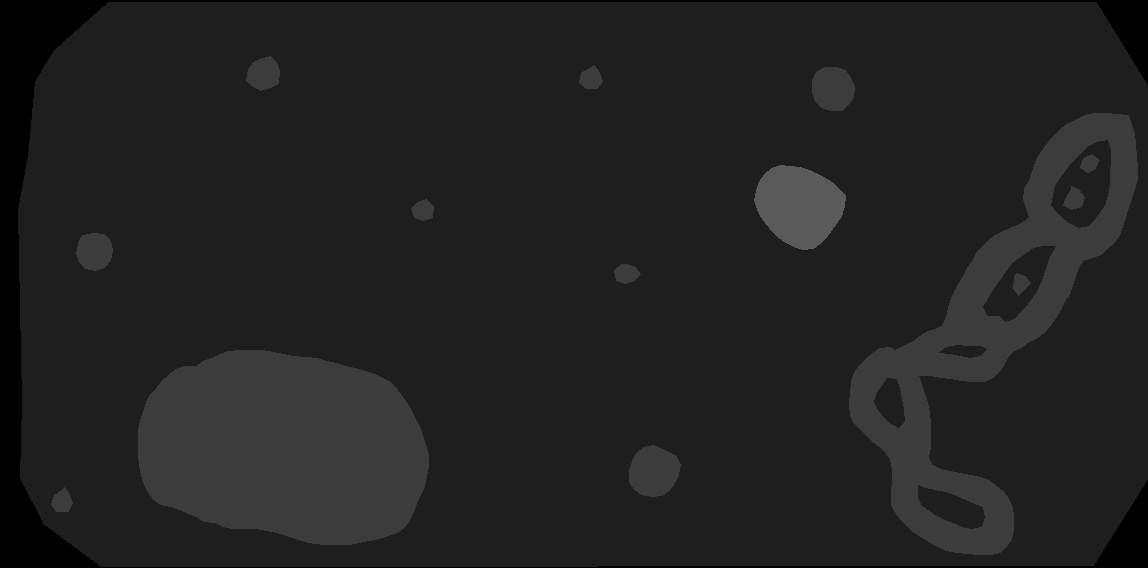
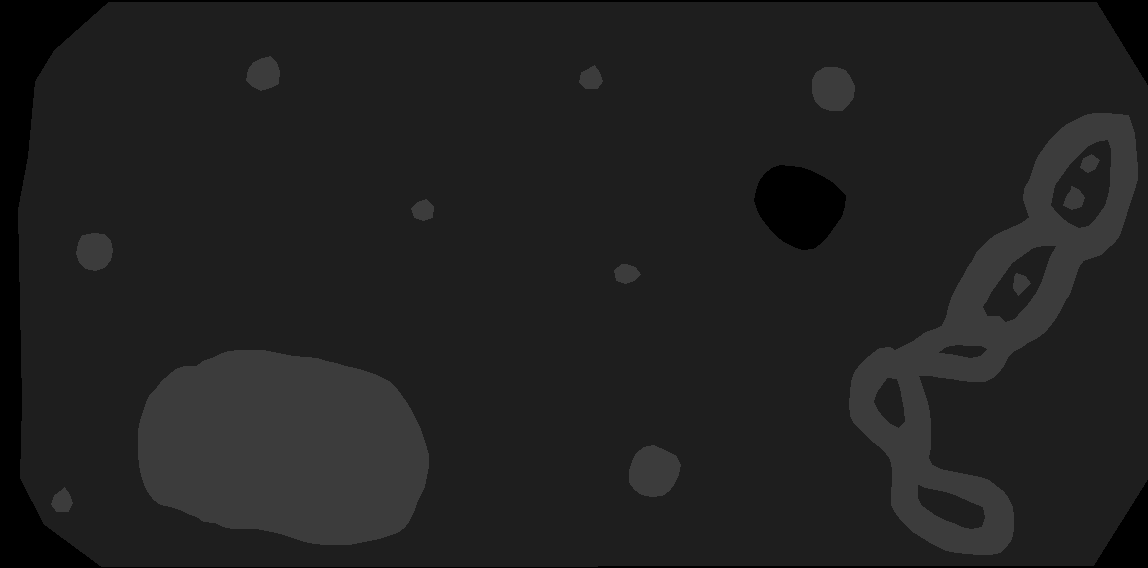
[Documentation] Update documentation

Changed region(s): [[0.6402, 0.2694, 0.7622, 0.4489]]

diff --git a/annotations/annotations_converter.py b/annotations/annotations_converter.py
@@ -11,7 +11,16 @@ from utilities.os_utilities import read_json
 class AnnotationsConverter():
     def __init__(self, image_path: str, annotation_path: str, label_dictionary: Dict,
                  method: Literal["naive", "ambiguous"] = "naive") -> None:
+        """
+        Initializes the converter by loading the image and annotations, and immediately generating the mask.
 
+        Args:
+            image_path (str): Path to the source image file.
+            annotation_path (str): Path to the VGG Image Annotator JSON file.
+            label_dictionary (Dict): A mapping of string labels to integer pixel values for the mask.
+            method (Literal["naive", "ambiguous"], optional): The strategy for resolving overlapping 
+                polygons. Defaults to "naive".
+        """
         self.image_path = image_path
         self.image = cv2.imread(self.image_path)
 
@@ -22,19 +31,26 @@ class AnnotationsConverter():
         self.label_dictionary = label_dictionary
         self.neural_network_mask = self.get_mask(method=method)
 
-    def convert_image_annotations(self):
+    def convert_image_annotations(self) -> List[Dict]:
+        """
+        Extracts and converts the raw VGG Image Annotator (VIA) regions into a standardized format.
+
+        This method acts as the initial parsing step for the JSON annotations. It searches the raw
+        JSON data for entries matching the specified image file name, extracts the polygon coordinate 
+        points, and associates them with their corresponding class labels (e.g., 'membrane', 'bacteria'). 
+        The resulting structured data is then used downstream for creating the segmentation masks.
+
+        Returns:
+            List[Dict]: A list of dictionaries, where each dictionary represents a labeled region 
+                containing a 'label' string and a 'points' list of (x, y) coordinate tuples.
+        """
         annotation_regions = None
 
-        # TODO : Check with Spore.bio -> I assume that the first key is the project name
-        #  , multiple different labellers or multiple different resolutions of an image given the key name but no sure.
-        #  we will iterate through it and check that we have the same file name before adding labelled regions
         for key, labelling_information in self.annotation_data.items():
             if labelling_information["filename"] == os.path.basename(self.image_path):
                 # Grab the image annotations
                 annotation_regions = labelling_information["regions"]
 
-        # TODO Inform that we could not get the labels
-        # todo to be re-reviewed
         if not annotation_regions:
             print(f"Unfortunately we could not find any labelled regions for {self.image_path}")
             exit()
@@ -48,11 +64,19 @@ class AnnotationsConverter():
 
         return converted_image_annotations
 
-    def prioritize_largest_membrane(self):
-        # Trying to deal with ambiguity of the the annotation that was provided
-        # There is a membrane that spans approximately the whole image
-        # Inside of it there are bacteria regions that also have inner regions
-        # that are membranes followed by other bacteria regions
+    def prioritize_largest_membrane(self) -> List[Dict]:
+        """
+        Reorders the image annotations to ensure the largest membrane is processed first.
+
+        This method resolves ambiguity in the provided annotations where a large membrane spans 
+        approximately the whole image, and contains bacteria regions that themselves have inner 
+        membrane regions. By identifying and placing the largest membrane first in the list, it 
+        ensures that subsequent bacteria and inner regions are drawn correctly on top of it.
+
+        Returns:
+            List[Dict]: A reordered list of annotation dictionaries, with the largest membrane 
+                annotation at the beginning (if any membranes are present).
+        """
         membrane_areas = []
 
         found_membrane = False
@@ -79,9 +103,24 @@ class AnnotationsConverter():
         else:
             return self.image_annotations
 
-    def get_mask(self, method):
-        # todo definition of method for ambiguous
+    def get_mask(self, method: Literal["naive", "ambiguous"]) -> np.ndarray:
+        """
+        Generates a categorical 2D image mask from the parsed polygon annotations.
 
+        This function maps the region annotations to an array of pixel values, acting as the primary
+        data preparation step before feeding images into the segmentation neural network. Based on the 
+        selected `method`, it handles overlapping polygons differently. The 'ambiguous' method prioritizes
+        the largest membrane to be drawn first, so smaller enclosed structures (like bacteria) are drawn 
+        on top, preventing them from being overwritten.
+
+        Args:
+            method (Literal["naive", "ambiguous"]): The strategy used to handle overlapping annotations. 
+                'naive' draws them in the order they appear, whereas 'ambiguous' re-orders them to draw 
+                the largest membrane first.
+
+        Returns:
+            np.ndarray: A 2D numpy array of shape (height, width) representing the mask.
+        """
         # Set up the mask
         image_height, image_width, _ = self.image.shape
         mask = np.zeros((image_height, image_width), dtype=np.uint8)
@@ -105,16 +144,18 @@ class AnnotationsConverter():
 
         return mask
 
-    def show_mask(self, multiplier=30, window_name="Image Mask"):
+    def show_mask(self, delta: int = 1, multiplier: int = 30, window_name="Image Mask"):
         """
         Displays the generated neural network mask in a local GUI window for visual inspection.
 
         Args:
+            delta (int, optional): A constant value added to the mask pixel values before scaling, 
+                useful for making background or zero-valued pixels visible. Defaults to 1.
             multiplier (int, optional): A scaling factor applied to the mask pixel values to enhance 
                 visibility on screen. Defaults to 30.
             window_name (str, optional): The title of the OpenCV window. Defaults to "Image Mask".
         """
-        cv2.imshow(window_name, self.neural_network_mask * multiplier)
+        cv2.imshow(window_name, (self.neural_network_mask + delta) * multiplier)
         cv2.waitKey(0)
 
     def save_mask(self, output_file_path: str, add_interpretable_version: bool = False, multiplier=30):

diff --git a/main.py b/main.py
@@ -11,7 +11,7 @@ bacteria_path = os.path.join(dataset_directory, "bacteria.png")
 annotation_path = os.path.join(dataset_directory, "annotations.json")
 
 # Setup Desired Label Dictionary {class_name: class_index_in_mask}
-label_dictionary = {"membrane": 1, "bacteria": 2, "unsure": 3}
+label_dictionary = {"unsure": 0, "membrane": 1, "bacteria": 2}
 
 # Based on some ambiguity in the annotation interpretation, i chose to implement two interpretations.
 # Naive interpretation -> Set up regions in the order they were labeled
@@ -25,6 +25,8 @@ for interpretation in ["ambiguous", "naive"]:
 
     # Define where to save the masks
     mask_path = os.path.join(dataset_directory, f"{interpretation}_mask_annotations.png")
+
+    # We also save an image mask that is easily interpretable by a human
     annotations.save_mask(output_file_path=mask_path, add_interpretable_version=True)
 
     # Display Mask For Visualisation
